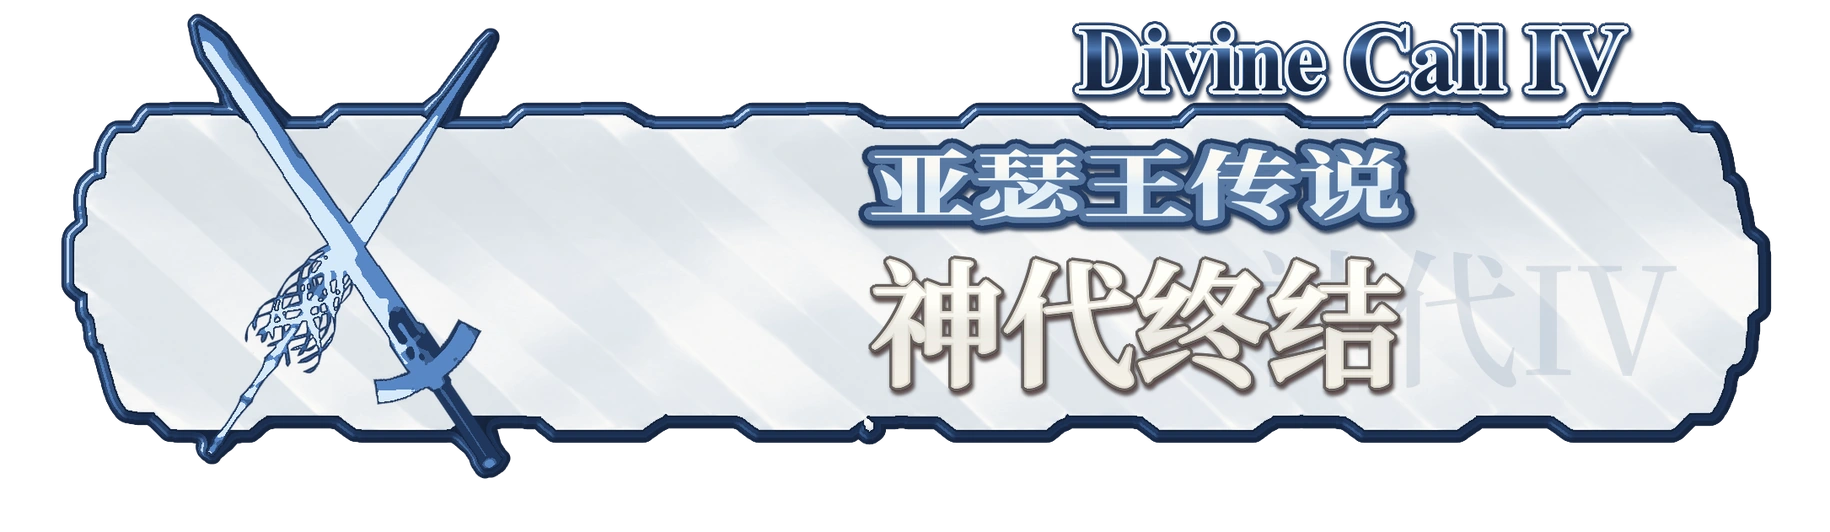
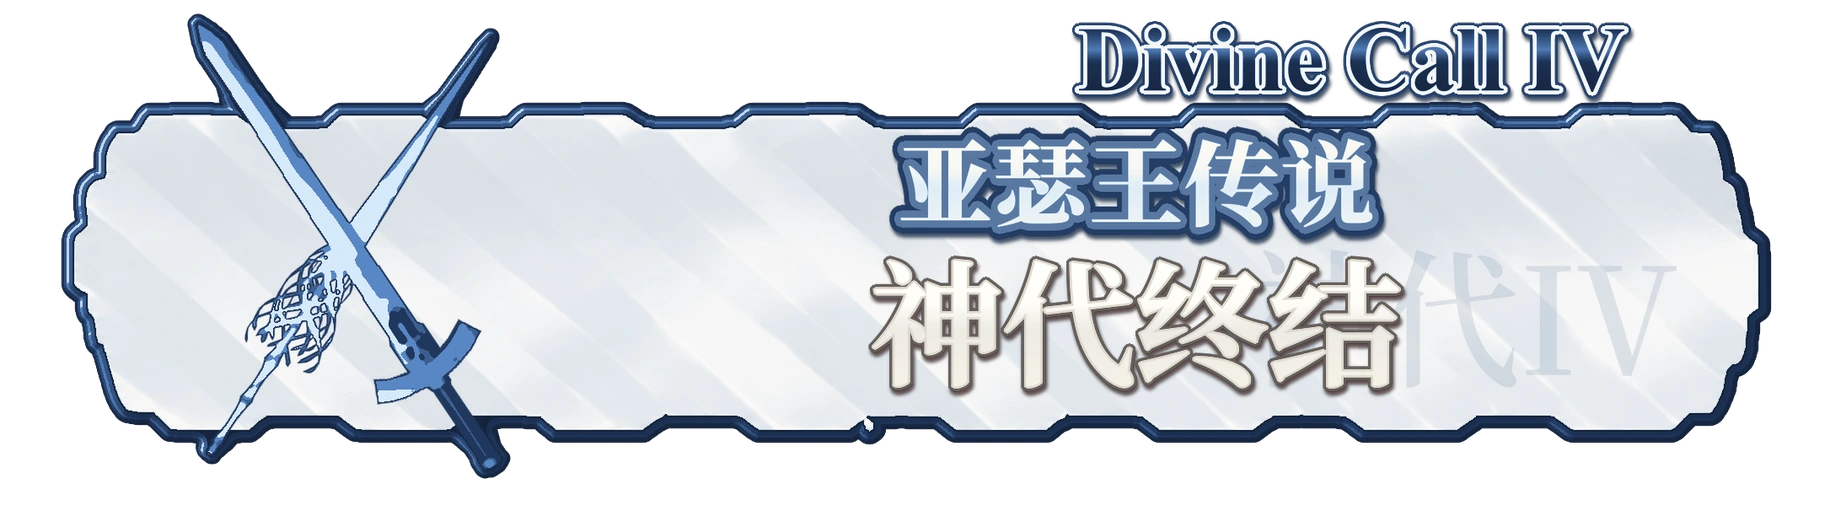
Match chapter heading glyph proportions to the game reference

Changed region(s): [[0.4672, 0.2406, 0.7787, 0.4812]]

diff --git a/new/game-map.js b/new/game-map.js
@@ -6,10 +6,10 @@ window.AkashaMap={init(canvas){
  const pause=document.getElementById('map-pause');function updatePause(){pause.textContent=paused?'▶':'Ⅱ';pause.setAttribute('aria-pressed',String(paused));pause.setAttribute('aria-label',paused?'开始地图旋转':'暂停地图旋转');}pause.onclick=()=>{paused=!paused;updatePause();};updatePause();reduced.addEventListener('change',e=>{paused=e.matches;updatePause();});
  // Regional anchors for the existing mythic login points, not archaeological claims.
  const chapters=[
- {id:'pick-divine-sumer',plate:'img/divine-plates/sumer.webp?v=fe4e25a',plateTitle:'神代乌鲁克',name:'美索不达米亚 · 乌鲁克',title:'苏美尔神话',pantheon:'美索不达米亚',lat:31.32,lon:45.64},
- {id:'pick-divine-greek',plate:'img/divine-plates/greek.webp?v=fe4e25a',plateTitle:'奥林波斯',name:'希腊神话区域',title:'希腊神话',pantheon:'希腊',lat:38,lon:24},
- {id:'pick-divine-norse',plate:'img/divine-plates/norse.webp?v=fe4e25a',plateTitle:'诸神黄昏',name:'北欧神话区域',title:'北欧神话',pantheon:'北欧',lat:62,lon:16},
- {id:'pick-divine-arthur',plate:'img/divine-plates/arthur.webp?v=fe4e25a',plateTitle:'神代终结',name:'不列颠 · 神代余韵',title:'亚瑟王传说',pantheon:'凯尔特',lat:51,lon:-3}];
+ {id:'pick-divine-sumer',plate:'img/divine-plates/sumer.webp?v=title-ratio-2',plateTitle:'神代乌鲁克',name:'美索不达米亚 · 乌鲁克',title:'苏美尔神话',pantheon:'美索不达米亚',lat:31.32,lon:45.64},
+ {id:'pick-divine-greek',plate:'img/divine-plates/greek.webp?v=title-ratio-2',plateTitle:'奥林波斯',name:'希腊神话区域',title:'希腊神话',pantheon:'希腊',lat:38,lon:24},
+ {id:'pick-divine-norse',plate:'img/divine-plates/norse.webp?v=title-ratio-2',plateTitle:'诸神黄昏',name:'北欧神话区域',title:'北欧神话',pantheon:'北欧',lat:62,lon:16},
+ {id:'pick-divine-arthur',plate:'img/divine-plates/arthur.webp?v=title-ratio-2',plateTitle:'神代终结',name:'不列颠 · 神代余韵',title:'亚瑟王传说',pantheon:'凯尔特',lat:51,lon:-3}];
  root.querySelectorAll('[data-chapter]').forEach((b,i)=>{b.innerHTML='<i class=shortcut-emblem aria-hidden=true></i><span><strong>'+chapters[i].title+'</strong><small>'+chapters[i].plateTitle+'</small></span>';b.setAttribute('aria-label','定位'+chapters[i].title);});
  function point(lat,lon){const v=(90-lat)/180,u=(180-lon)/360,t=u*Math.PI*2;return[Math.cos(t)*Math.sin(v*Math.PI),Math.cos(v*Math.PI),Math.sin(t)*Math.sin(v*Math.PI)];}
  function rotation(q){let [x,y,z]=q,c=Math.cos(yaw),s=Math.sin(yaw);[x,z]=[c*x+s*z,-s*x+c*z];[y,z]=[Math.cos(pitch)*y-Math.sin(pitch)*z,Math.sin(pitch)*y+Math.cos(pitch)*z];return[Math.cos(roll)*x-Math.sin(roll)*y,Math.sin(roll)*x+Math.cos(roll)*y,z];}

diff --git a/new/index.html b/new/index.html
@@ -4848,7 +4848,7 @@ select{ color:inherit; }
 <link rel="stylesheet" href="announcement.css">
 <script src="announcement.js" defer></script>
 <link rel="stylesheet" href="game-ui.css">
-<link rel="stylesheet" href="game-shell.css?v=fe4e25a"><script src="game-map.js?v=fe4e25a" defer></script><script src="game-shell.js" defer></script><script src="game-worlds.js" defer></script>
+<link rel="stylesheet" href="game-shell.css?v=fe4e25a"><script src="game-map.js?v=title-ratio-2" defer></script><script src="game-shell.js" defer></script><script src="game-worlds.js" defer></script>
 <link rel="stylesheet" href="summon-view.css"><script src="summon-view.js"></script><link rel="stylesheet" href="summon-composer.css"><script src="summon-composer.js"></script><script src="hidden-entry-finish.js"></script>
 
 <style>
